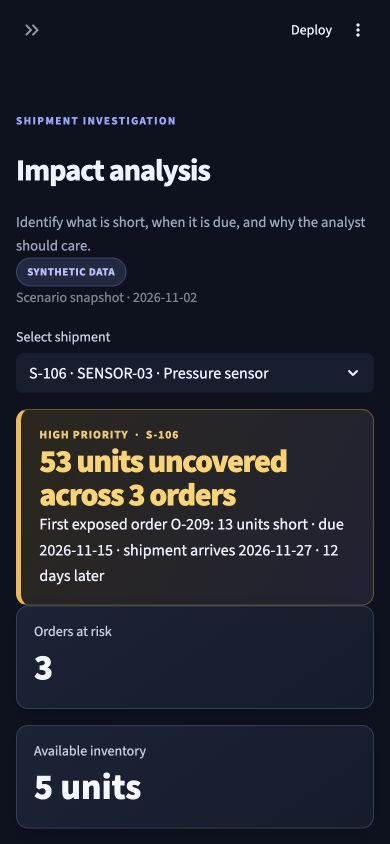
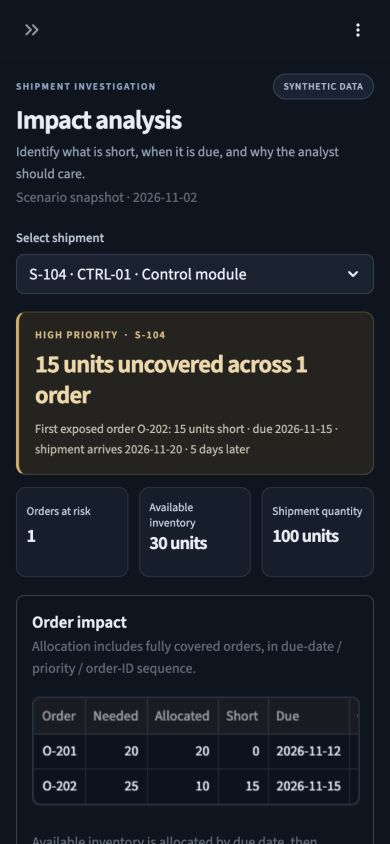
Polish Streamlit overview and shipment analysis layouts

diff --git a/src/ui.py b/src/ui.py
@@ -59,63 +59,94 @@ def apply_visual_theme():
     st.markdown(
         """
         <style>
-          :root { --ink:#EEF2FF; --muted:#9BA8C1; --line:#29344A;
-                  --surface:#171E2E; --accent:#8290FF; --cyan:#46D7CF; }
-          .stApp { background:#0D1220; color:var(--ink); }
-          [data-testid="stHeader"] { background:rgba(13,18,32,.96); }
-          [data-testid="stAppViewContainer"] .main .block-container {
-            max-width:1380px; padding-top:1.35rem; padding-bottom:2.2rem;
+          :root {
+            --ink:#E8EDF5; --muted:#94A3B8; --line:#293446;
+            --surface:#151E2C; --accent:#82A7FF; --cyan:#62D6BC;
           }
-          [data-testid="stSidebar"] { background:#111827; border-right:1px solid var(--line); }
+          .stApp { background:#0E1520; color:var(--ink); }
+          [data-testid="stHeader"] { background:rgba(14,21,32,.95); }
+          [data-testid="stAppDeployButton"] { display:none; }
+          [data-testid="stMainBlockContainer"] {
+            max-width:1320px; padding:2.25rem 2.75rem 3rem;
+          }
+          [data-testid="stVerticalBlock"] { gap:1.1rem; }
+          [data-testid="stSidebar"] { background:#111A27; border-right:1px solid var(--line); }
+          [data-testid="stSidebarUserContent"] { padding-top:1.2rem; }
+          [data-testid="stSidebar"] [data-testid="stAlert"] { padding:.65rem; background:#19283A; }
+          [data-testid="stSidebar"] [data-testid="stAlert"] p { font-size:.76rem; line-height:1.5; }
+          [data-testid="stSidebarNavLink"] { border-radius:8px; }
           h1,h2,h3 { color:var(--ink); letter-spacing:-.035em; }
-          h1 { font-size:1.9rem !important; font-weight:720 !important; margin:.15rem 0 .25rem !important; }
-          h2 { font-size:1.18rem !important; font-weight:680 !important; }
-          h3 { font-size:1rem !important; font-weight:680 !important; }
-          p,label { color:#C4CDE0; }
+          h1 { font-size:2rem !important; font-weight:650 !important; margin:0 !important; padding:.2rem 0 .25rem !important; }
+          h2 { font-size:1.2rem !important; font-weight:650 !important; }
+          h3 { font-size:1.05rem !important; font-weight:620 !important; padding:.1rem 0 !important; }
+          p,label { color:#C6D0DF; }
+          [data-testid="stCaptionContainer"] p { color:var(--muted); line-height:1.55; }
           [data-testid="stMetric"] {
-            background:linear-gradient(145deg,#1A2337,#151C2C); border:1px solid #303D58;
-            border-radius:12px; padding:13px 17px; min-height:100px;
-            box-shadow:0 5px 18px rgba(0,0,0,.18);
+            background:var(--surface); border:1px solid var(--line);
+            border-radius:10px; padding:1rem 1.15rem; min-height:105px;
           }
-          [data-testid="stHorizontalBlock"] > [data-testid="column"]:nth-child(1) [data-testid="stMetric"] { border-top:3px solid #8290FF; }
-          [data-testid="stHorizontalBlock"] > [data-testid="column"]:nth-child(2) [data-testid="stMetric"] { border-top:3px solid #46D7CF; }
-          [data-testid="stHorizontalBlock"] > [data-testid="column"]:nth-child(3) [data-testid="stMetric"] { border-top:3px solid #F4B84A; }
-          [data-testid="stHorizontalBlock"] > [data-testid="column"]:nth-child(4) [data-testid="stMetric"] { border-top:3px solid #F27691; }
           [data-testid="stMetricLabel"] { color:var(--muted); font-size:.78rem; }
-          [data-testid="stMetricValue"] { color:#F5F7FF; font-weight:760; }
-          [data-testid="stVerticalBlockBorderWrapper"] {
-            background:#151C2B; border-color:var(--line); border-radius:12px;
-            box-shadow:0 5px 18px rgba(0,0,0,.16);
-          }
-          [data-testid="stDataFrame"] { border:1px solid var(--line); border-radius:9px; overflow:hidden; }
+          [data-testid="stMetricValue"] { color:var(--ink); font-size:1.9rem; font-weight:650; letter-spacing:-.04em; }
+          [data-testid="stVerticalBlockBorderWrapper"] { border-color:var(--line) !important; border-radius:12px; }
+          [data-testid="stVerticalBlockBorderWrapper"] > [data-testid="stVerticalBlock"] { padding:.25rem; }
+          [data-testid="stDataFrame"] { border:1px solid var(--line); border-radius:8px; overflow:hidden; }
+          [data-testid="stSelectbox"] [data-baseweb="select"] > div { border-radius:8px; background:#182231; border-color:#334155; }
+          [data-testid="stWidgetLabel"] p { font-size:.8rem; font-weight:550; color:#B6C3D5; }
           div.stButton > button, div.stFormSubmitButton > button {
-            background:#6675EA; color:#fff; border:1px solid #7885F2;
-            border-radius:8px; min-height:2.45rem; font-weight:680;
+            background:#21324C; color:#E8EDF5; border:1px solid #3A506F;
+            border-radius:8px; min-height:2.55rem; font-weight:600;
           }
-          div.stButton > button:hover, div.stFormSubmitButton > button:hover {
-            background:#7885F2; color:#fff; border-color:#8D98FF;
+          div.stButton > button p { color:inherit; font-size:.85rem; }
+          div.stButton > button:hover { background:#2A4060; color:#fff; border-color:#82A7FF; }
+          div.stButton > button[kind="primary"] { background:#88B1FF; color:#101B2C; border-color:#88B1FF; }
+          div.stButton > button:focus-visible { outline:2px solid #88B1FF; outline-offset:3px; }
+          .page-meta { display:flex; justify-content:space-between; align-items:center; gap:1rem; }
+          .eyebrow { color:#8FA8C7; font-size:.68rem; font-weight:650; letter-spacing:.13em; }
+          .subcopy { color:var(--muted); font-size:.92rem; line-height:1.6; margin:0; }
+          .brand { color:#F0F4FA; font-size:1.02rem; font-weight:650; letter-spacing:-.025em; }
+          .brand-mark { color:var(--cyan); }
+          .pill { display:inline-block; border:1px solid #34475B; color:#AABCD2;
+            background:#172334; border-radius:999px; padding:.25rem .6rem;
+            font-size:.62rem; font-weight:600; letter-spacing:.06em; white-space:nowrap; }
+          .status-risk { color:#E3BC76; background:#302A21; border:1px solid #57472E;
+            border-radius:5px; padding:.25rem .5rem; font-size:.74rem; font-weight:650; white-space:nowrap; }
+          .impact-hero { background:#24231F; border:1px solid #514735;
+            border-left:3px solid #D8AE65; border-radius:10px; padding:1.1rem 1.25rem; margin-bottom:.65rem; }
+          .impact-value { color:#F0D7A6; font-size:1.85rem; line-height:1.25; font-weight:650; letter-spacing:-.035em; margin:.3rem 0 .5rem; }
+          .impact-label { color:#D7B77E; font-size:.66rem; font-weight:650; text-transform:uppercase; letter-spacing:.1em; }
+          .impact-detail { color:#C7BFAF; font-size:.83rem; line-height:1.65; }
+          .action-card { display:flex; align-items:flex-start; gap:.8rem; background:#14241F;
+            border:1px solid #29463D; border-radius:8px; padding:.85rem 1rem; color:#C0D9D0; font-size:.88rem; line-height:1.65; margin-bottom:.35rem; }
+          .action-card .status-risk { color:#A5DDCC; background:#203930; border-color:#355346; }
+          .allocation-track { display:flex; height:34px; overflow:hidden; border-radius:6px; background:#253143; margin:.45rem 0; }
+          .allocation-covered { background:#547DA7; color:#fff; display:flex; align-items:center; justify-content:center; font-size:.73rem; font-weight:600; white-space:nowrap; }
+          .allocation-short { background:#D4AF6F; color:#282218; display:flex; align-items:center; justify-content:center; font-size:.73rem; font-weight:650; white-space:nowrap; }
+          .timeline { display:flex; align-items:center; gap:.65rem; color:#9BAFC7; font-size:.69rem; flex-wrap:wrap; }
+          .timeline-line { flex:1; min-width:20px; height:2px; background:#42526A; }
+          hr { border-color:var(--line); margin:1rem 0; }
+          @media (max-width:640px) {
+            [data-testid="stMainBlockContainer"] { padding:3.5rem 1rem 2rem; }
+            h1 { font-size:1.65rem !important; }
+            .page-meta { flex-wrap:wrap; gap:.5rem; }
+            .eyebrow { font-size:.61rem; }
+            .subcopy { font-size:.85rem; }
+            .st-key-overview_metrics [data-testid="stHorizontalBlock"],
+            .st-key-analysis_metrics [data-testid="stHorizontalBlock"] {
+              display:grid; grid-template-columns:repeat(2,minmax(0,1fr)); gap:.65rem;
+            }
+            .st-key-overview_metrics [data-testid="stColumn"],
+            .st-key-analysis_metrics [data-testid="stColumn"] { width:100% !important; min-width:0 !important; }
+            [data-testid="stMetric"] { min-height:90px; padding:.8rem; }
+            [data-testid="stMetricValue"] { font-size:1.55rem; }
+            [data-testid="stMetricLabel"] p { font-size:.72rem; white-space:normal; overflow:visible; text-overflow:clip; }
+            .st-key-analysis_metrics [data-testid="stHorizontalBlock"] { grid-template-columns:repeat(3,minmax(0,1fr)); }
+            .st-key-analysis_metrics [data-testid="stMetric"] { padding:.7rem .6rem; }
+            .st-key-analysis_metrics [data-testid="stMetricValue"] { font-size:1.15rem; }
+            .impact-hero { padding:.9rem 1rem; }
+            .impact-value { font-size:1.55rem; }
+            .impact-detail { font-size:.78rem; }
+            .action-card { padding:.8rem; gap:.65rem; }
           }
-          .eyebrow { color:#9AA6FF; font-size:.7rem; font-weight:750; letter-spacing:.12em; }
-          .subcopy { color:var(--muted); font-size:.92rem; margin:.1rem 0 0; }
-          .brand { color:#F1F4FF; font-size:1.02rem; font-weight:750; letter-spacing:-.02em; }
-          .brand-mark { color:#8290FF; }
-          .pill { display:inline-block; border:1px solid #394574; color:#B7C0FF;
-            background:#202943; border-radius:999px; padding:.3rem .64rem;
-            font-size:.68rem; font-weight:750; letter-spacing:.05em; }
-          .status-risk { color:#FFD27A; background:#352B1A; border:1px solid #70582C;
-            border-radius:999px; padding:.24rem .55rem; font-size:.7rem; font-weight:750; }
-          .quiet { color:var(--muted); font-size:.8rem; }
-          .impact-hero { background:linear-gradient(120deg,#2C271D,#202235); border:1px solid #6B572F;
-            border-left:5px solid #F4B84A; border-radius:12px; padding:1rem 1.15rem; }
-          .impact-value { color:#FFD166; font-size:2rem; line-height:1.05; font-weight:850; letter-spacing:-.04em; }
-          .impact-label { color:#F5C96F; font-size:.72rem; font-weight:750; text-transform:uppercase; letter-spacing:.08em; }
-          .ai-card { background:#1A2036; border:1px solid #3A426A; border-radius:12px; padding:.9rem 1rem; }
-          .allocation-track { display:flex; height:38px; overflow:hidden; border-radius:8px; background:#252D40; margin:.65rem 0; }
-          .allocation-covered { background:#586CE0; color:#fff; display:flex; align-items:center; justify-content:center; font-size:.75rem; font-weight:750; white-space:nowrap; }
-          .allocation-short { background:#F4B84A; color:#382507; display:flex; align-items:center; justify-content:center; font-size:.75rem; font-weight:800; white-space:nowrap; }
-          .timeline { display:flex; align-items:center; gap:.75rem; color:#C1CBE0; font-size:.76rem; }
-          .timeline-line { flex:1; height:4px; background:linear-gradient(90deg,#F4B84A 0 50%,#586CE0 50% 100%); border-radius:4px; }
-          hr { border-color:var(--line); }
         </style>
         """,
         unsafe_allow_html=True,
@@ -123,13 +154,12 @@ def apply_visual_theme():
 
 
 def page_heading(eyebrow, title, subtitle, as_of=None):
-    left, right = st.columns([5, 1])
-    with left:
-        st.markdown(f'<div class="eyebrow">{eyebrow}</div>', unsafe_allow_html=True)
-        st.title(title)
-        st.markdown(f'<div class="subcopy">{subtitle}</div>', unsafe_allow_html=True)
-    with right:
-        st.markdown('<div class="pill">SYNTHETIC DATA</div>', unsafe_allow_html=True)
+    st.markdown(
+        f'<div class="page-meta"><span class="eyebrow">{eyebrow}</span>'
+        '<span class="pill">SYNTHETIC DATA</span></div>', unsafe_allow_html=True,
+    )
+    st.title(title)
+    st.markdown(f'<div class="subcopy">{subtitle}</div>', unsafe_allow_html=True)
     if as_of:
         st.caption(f"Scenario snapshot · {as_of}")
 

diff --git a/src/pages/shipment_analysis.py b/src/pages/shipment_analysis.py
@@ -57,17 +57,18 @@ if risks:
         f"""<div class="impact-hero">
           <div class="impact-label">{severity} &nbsp;·&nbsp; {selected_id}</div>
           <div class="impact-value">{units_uncovered:,} units uncovered across {len(risks)} {"order" if len(risks) == 1 else "orders"}</div>
-          <div>First exposed order {first['order_id']}: {first['qty_uncovered']} units short · due {first['due_date']} · shipment arrives {shipment['expected_arrival_date']} · {gap_days} days later</div>
+          <div class="impact-detail">First exposed order {first['order_id']}: {first['qty_uncovered']} units short · due {first['due_date']} · shipment arrives {shipment['expected_arrival_date']} · {gap_days} days later</div>
         </div>""",
         unsafe_allow_html=True,
     )
 else:
     st.success("No at-risk customer orders before this shipment's arrival.")
 
-m1, m2, m3 = st.columns(3)
-m1.metric("Orders at risk", len(risks))
-m2.metric("Available inventory", f"{inventory_by_item.get(shipment['item_id'], 0):,} units")
-m3.metric("Shipment quantity", f"{int(shipment['qty']):,} units")
+with st.container(key="analysis_metrics"):
+    m1, m2, m3 = st.columns(3)
+    m1.metric("Orders at risk", len(risks))
+    m2.metric("Available inventory", f"{inventory_by_item.get(shipment['item_id'], 0):,} units")
+    m3.metric("Shipment quantity", f"{int(shipment['qty']):,} units")
 
 left, right = st.columns([1.25, 1], gap="medium")
 with left, st.container(border=True):
@@ -76,7 +77,7 @@ with left, st.container(border=True):
     st.dataframe(pd.DataFrame([{
         "Order": row["order_id"], "Needed": row["qty_needed"],
         "Allocated": row["qty_covered"], "Short": row["qty_uncovered"],
-        "Due": row["due_date"],
+        "Due": row["due_date"], "Customer": row.get("customer", ""),
     } for row in impact["allocation"]]), width="stretch", hide_index=True)
     if risks:
         st.caption("Available inventory is allocated by due date, then priority.")
@@ -92,16 +93,6 @@ with left, st.container(border=True):
             f'{focus["qty_uncovered"]} short</div></div>',
             unsafe_allow_html=True,
         )
-        st.markdown("**Orders requiring review**")
-        order_rows = [{
-            "Order": row["order_id"],
-            "Customer": row.get("customer", ""),
-            "Needed": row["qty_needed"],
-            "Covered": row.get("qty_covered", row["qty_needed"] - row["qty_uncovered"]),
-            "Short": row["qty_uncovered"],
-            "Due": row["due_date"],
-        } for row in risks]
-        st.dataframe(pd.DataFrame(order_rows), width="stretch", hide_index=True)
         st.markdown(
             f'<div class="timeline"><strong>ORDER DUE&nbsp; {focus["due_date"]}</strong>'
             '<div class="timeline-line"></div>'
@@ -122,7 +113,7 @@ if st.session_state.get("ai_input_snapshot") != snapshot:
     st.session_state["ai_input_snapshot"] = snapshot
 with right, st.container(border=True):
     st.markdown('<div class="eyebrow">AI EXPLANATION</div>', unsafe_allow_html=True)
-    st.markdown("### Why this matters")
+    st.markdown("### Analyst brief")
     st.caption("Generated text is AI commentary. Verified quantities and actions are shown separately.")
     if risks:
         st.markdown(f"**Verified input:** {first['order_id']} · {first['qty_uncovered']} units short · due {first['due_date']}.")
@@ -153,14 +144,14 @@ with right, st.container(border=True):
         else:
             st.caption("Generate a brief to explain the timing, shortage, and policy-supported focus.")
     else:
-        st.caption("Add a server-side OpenAI key and enable private live AI to generate the explanation. No key is stored in the browser or repository.")
+        st.caption("AI commentary is optional. Verified allocation and recommended actions are available without it.")
 
 if risks:
     st.markdown("### Recommended analyst action")
     for action in impact["allowed_next_steps"]:
         st.markdown(
-            f'<div class="impact-hero"><span class="status-risk">{action["order_id"]}</span>'
-            f' &nbsp; {action["action"]}</div>',
+            f'<div class="action-card"><span class="status-risk">{action["order_id"]}</span>'
+            f'<span>{action["action"]}</span></div>',
             unsafe_allow_html=True,
         )
 else:

diff --git a/src/pages/overview.py b/src/pages/overview.py
@@ -16,11 +16,12 @@ at_risk_shipments = [row for row in shipments if row["units_uncovered"] > 0]
 units_uncovered = sum(row["units_uncovered"] for row in at_risk_shipments)
 orders_at_risk = sum(row["at_risk_orders"] for row in at_risk_shipments)
 
-m1, m2, m3, m4 = st.columns(4)
-m1.metric("Inbound shipments", counts["shipments"], help="Synthetic delayed-shipment scenarios")
-m2.metric("Shipments with exposure", len(at_risk_shipments))
-m3.metric("Orders at risk", orders_at_risk)
-m4.metric("Units uncovered", f"{units_uncovered:,}")
+with st.container(key="overview_metrics"):
+    m1, m2, m3, m4 = st.columns(4)
+    m1.metric("Inbound shipments", counts["shipments"], help="Synthetic delayed-shipment scenarios")
+    m2.metric("Shipments with exposure", len(at_risk_shipments))
+    m3.metric("Orders at risk", orders_at_risk)
+    m4.metric("Units uncovered", f"{units_uncovered:,}")
 
 left, right = st.columns([1.35, 1], gap="large")
 with left, st.container(border=True):
@@ -36,8 +37,8 @@ with left, st.container(border=True):
              "Units uncovered": row["units_uncovered"]}
             for row in chart_rows
         ]).set_index("Shipment · SKU")
-        st.bar_chart(chart, color="#58D6B5", height=300)
-        st.caption("Showing the 10 highest-exposure shipments. Select one in Shipment analysis for order-level detail.")
+        st.bar_chart(chart, color="#62BBA6", horizontal=True, height=340, x_label="Uncovered units", y_label="", sort=False)
+        st.caption("The 10 highest-exposure shipments · current stock allocated before arrival.")
     else:
         st.success("No order exposure in the current scenario records.")
 
@@ -53,9 +54,15 @@ with right, st.container(border=True):
             "Due": row["due_date"],
         } for row in exposed_orders[:7]]
         st.dataframe(pd.DataFrame(focus_rows), width="stretch", hide_index=True)
-        st.markdown("**Next:** Open *Shipment analysis* in the sidebar to review the recommended response and evidence.")
+
     else:
         st.success("No customer orders currently show a shortfall.")
+
+    if shipments:
+        chosen = st.selectbox("Open shipment", [row["shipment_id"] for row in shipments])
+        if st.button("Open shipment analysis", width="stretch", type="primary"):
+            st.session_state["requested_shipment"] = chosen
+            st.switch_page("pages/shipment_analysis.py")
 
 st.markdown("### Shipment register")
 st.caption(f"Arrival windows and calculated exposure across all {counts['shipments']} inbound scenarios")
@@ -69,12 +76,6 @@ register_rows = [{
     "Units uncovered": row["units_uncovered"],
 } for row in shipments]
 st.dataframe(pd.DataFrame(register_rows), width="stretch", hide_index=True, height=360)
-if shipments:
-    chosen = st.selectbox("Open shipment", [row["shipment_id"] for row in shipments])
-    if st.button("Open shipment analysis"):
-        st.session_state["requested_shipment"] = chosen
-        st.switch_page("pages/shipment_analysis.py")
 st.caption(
-    "Data is synthetic and reproducible. The dashboard uses Firebase Firestore for operational records; "
-    "the model does not train on this dataset."
+    "Synthetic demo records · deterministic allocation by due date, priority, and order ID · read-only decision support."
 )

diff --git a/src/web_app.py b/src/web_app.py
@@ -25,7 +25,7 @@ st.set_page_config(
     page_title="SupplyChain Copilot",
     page_icon="📦",
     layout="wide",
-    initial_sidebar_state="expanded",
+    initial_sidebar_state="auto",
 )
 apply_visual_theme()
 
@@ -57,7 +57,7 @@ with st.sidebar:
     st.markdown("**Workspace data**")
     st.caption(
         f"{counts['shipments']} shipments · {counts['items']} SKUs\n\n"
-        f"{counts['orders']} order lines · Firebase Firestore"
+        f"{counts['orders']} order lines · {'Local demo' if OFFLINE_DEMO else 'Firebase Firestore'}"
     )
     st.markdown('<div class="pill">SYNTHETIC SCENARIO</div>', unsafe_allow_html=True)
     st.divider()
@@ -67,13 +67,13 @@ pages = [
     st.Page(
         APP_DIR / "pages" / "overview.py",
         title="Overview",
-        icon="📊",
+        icon=":material/space_dashboard:",
         default=True,
     ),
     st.Page(
         APP_DIR / "pages" / "shipment_analysis.py",
         title="Shipment analysis",
-        icon="🔎",
+        icon=":material/local_shipping:",
     ),
 ]
 page = st.navigation(pages, position="sidebar")

diff --git a/tests/test_web_app.py b/tests/test_web_app.py
@@ -62,7 +62,7 @@ class SupplyChainDashboardTest(unittest.TestCase):
         self.assertTrue(any("O-202" in str(item.value) for item in app.dataframe))
         self.assertTrue(any("same-day operations analyst review" in item.value for item in app.markdown))
         self.assertTrue(any("AI EXPLANATION" in item.value for item in app.markdown))
-        self.assertTrue(any("Add a server-side OpenAI key" in item.value for item in app.caption))
+        self.assertTrue(any("AI commentary is optional" in item.value for item in app.caption))
 
 
 if __name__ == "__main__":

diff --git a/docs/release_status.md b/docs/release_status.md
@@ -29,6 +29,18 @@ and minimal offline CI workflow are included. The walkthrough holds five actual
 app screenshots; it is not a real AI generation recording. The stack and scope
 remain Streamlit, Firestore, BM25, and deterministic Python calculations.
 
+## UI cleanup
+
+Both pages use a consistent compact heading, neutral surfaces, restrained status
+colors, and clearer controls. The overview chart uses sorted horizontal bars;
+investigation opens directly from the attention panel. Analysis uses one
+allocation table (including covered orders and customer details), a separate AI
+commentary panel, and quieter deterministic action cards. Phone layouts keep
+overview metrics in a two-by-two grid and investigation metrics in one row.
+Checked at 1440px desktop and 390px phone widths; no page-level horizontal
+overflow. The README screenshots and five-state offline walkthrough were refreshed.
+The existing 46 tests and all seven deterministic evaluations pass.
+
 ## Remaining public release checks
 
 Before calling the public release complete:

diff --git a/README.md b/README.md
@@ -13,7 +13,7 @@ app states; synthetic data; no AI generation or paid calls.
 
 [Local verification and remaining release work](docs/release_status.md)
 
-![Shipment analysis showing verified totals and allocation](docs/images/shipment-analysis.png)
+![Overview showing shipment exposure and direct investigation](docs/images/overview.png)
 
 Decision support with optional AI commentary: Python owns allocation, shortages, and
 policy actions so the results stay inspectable when generation is unavailable.
